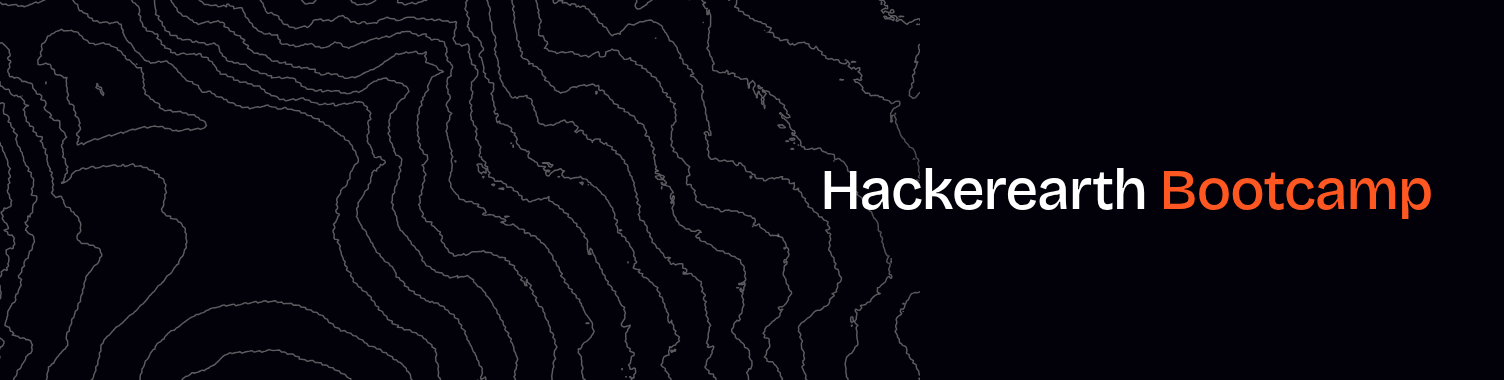
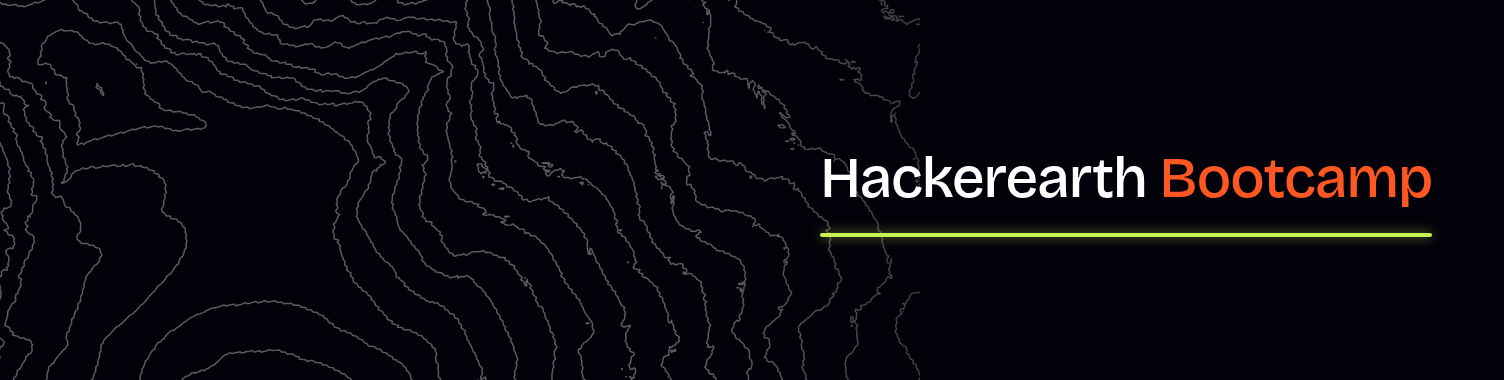
Fade contours left-to-right, add neon-green underline
Swap the radial fade mask for a linear left-to-right fade so the
contours taper off smoothly toward the headline. Add a lime
underline sized to match the text width exactly.

Claude-Session: https://claude.ai/code/session_01W9xvLa9cejDYywCeDwhz4r

Changed region(s): [[0.5312, 0.4053, 0.9688, 0.6368]]

diff --git a/hackerearth-bootcamp-banner.html b/hackerearth-bootcamp-banner.html
@@ -51,16 +51,16 @@
     opacity: 0.85;
   }
 
-  /* Radial mask: rings clustered left, fade toward headline on the right
-     (mirror of the documented .fade-left recipe) */
+  /* Linear mask: rings strong on the left, fading out toward the
+     right where the headline sits. */
   .contour-fade {
     position: absolute;
     inset: 0;
-    background: radial-gradient(
-      ellipse 62% 90% at 92% 50%,
-      var(--bg-dark) 0%,
-      var(--bg-dark) 16%,
-      transparent 62%
+    background: linear-gradient(
+      90deg,
+      transparent 0%,
+      transparent 48%,
+      var(--bg-dark) 86%
     );
   }
 
@@ -71,8 +71,9 @@
     height: 380px;
     width: 940px;
     display: flex;
-    align-items: center;
-    justify-content: flex-end;
+    flex-direction: column;
+    align-items: flex-end;
+    justify-content: center;
     padding-right: 72px;
   }
 
@@ -86,6 +87,21 @@
 
   .title .line1 { color: #FFFFFF; }
   .title .line2 { color: var(--cta); }
+
+  /* Shrink-to-fit stack so the underline matches the text width exactly */
+  .stack {
+    display: inline-block;
+  }
+
+  /* Neon-green underline (brand lime, the system's on-dark highlight) */
+  .rule {
+    width: 100%;
+    height: 4px;
+    border-radius: 2px;
+    background: var(--lime);
+    box-shadow: 0 0 12px rgba(199,242,82,0.65);
+    margin-top: 20px;
+  }
 </style>
 </head>
 <body>
@@ -424,7 +440,10 @@
     </div>
     <div class="contour-fade"></div>
     <div class="text-wrap">
-      <div class="title"><span class="line1">Hackerearth </span><span class="line2">Bootcamp</span></div>
+      <div class="stack">
+        <div class="title"><span class="line1">Hackerearth </span><span class="line2">Bootcamp</span></div>
+        <div class="rule"></div>
+      </div>
     </div>
   </div>
 </body>
